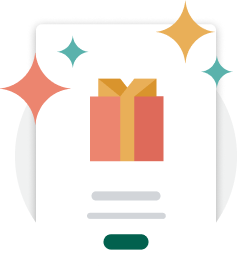
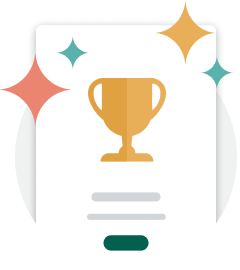
Updating image and fixing spacing

diff --git a/src/components/HomePage.jsx b/src/components/HomePage.jsx
@@ -6,6 +6,7 @@ import {
   Image,
   Stack,
   Link,
+  Heading,
 } from "@shopify/polaris";
 
 import trophyImgUrl from "../assets/home-trophy.png";
@@ -17,11 +18,17 @@ export function HomePage() {
     <Page fullWidth>
       <Layout>
         <Layout.Section>
-          <Card sectioned title="Nice work on building a Shopify app 🎉">
-            <Stack wrap={false} spacing="extraTight">
+          <Card sectioned>
+            <Stack
+              wrap={false}
+              spacing="extraTight"
+              distribution="trailing"
+              alignment="center"
+            >
               <Stack.Item fill>
                 <TextContainer spacing="loose">
-                  <p style={{ marginTop: 20 }}>
+                  <Heading>Nice work on building a Shopify app 🎉</Heading>
+                  <p>
                     Your app is ready to explore! It contains everything you
                     need to get started including the{" "}
                     <Link url="https://polaris.shopify.com/" external>
@@ -40,12 +47,10 @@ export function HomePage() {
                     </Link>{" "}
                     UI library and components.
                   </p>
-
                   <p>
                     Ready to go? Start populating your app with some sample
                     products to view and test in your store.{" "}
                   </p>
-
                   <p>
                     Learn more about building out your app in{" "}
                     <Link
@@ -59,7 +64,7 @@ export function HomePage() {
                 </TextContainer>
               </Stack.Item>
               <Stack.Item>
-                <div style={{ padding: "0 48px 20px 20px" }}>
+                <div style={{ padding: "0 20px" }}>
                   <Image
                     source={trophyImgUrl}
                     alt="Nice work on building a Shopify app"

diff --git a/src/components/ProductsCard.jsx b/src/components/ProductsCard.jsx
@@ -43,14 +43,12 @@ export function ProductsCard() {
             Sample products are created with a default title and price. You can
             remove them at any time.
           </p>
-
           <Heading element="h4">
             TOTAL PRODUCTS
             <DisplayText size="medium">
               <TextStyle variation="strong">{productCount}</TextStyle>
             </DisplayText>
           </Heading>
-
           <Button
             primary
             loading={loading}
